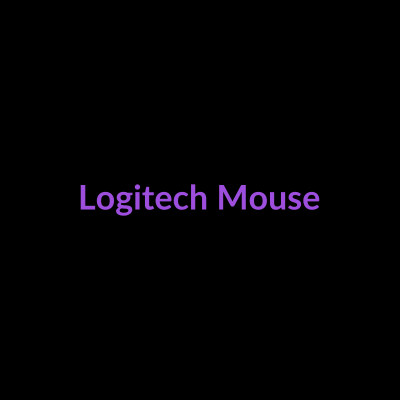
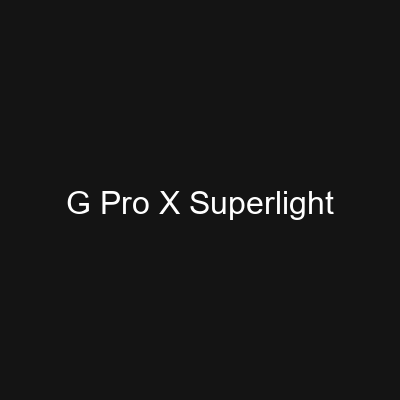
feat: new products

Changed region(s): [[0.15, 0.45, 0.84, 0.57]]

diff --git a/byteForge-backend/scripts/generate_placeholders.py b/byteForge-backend/scripts/generate_placeholders.py
@@ -1,0 +1,95 @@
+import os
+from PIL import Image, ImageDraw, ImageFont
+
+# Directory to save generated images
+IMAGE_DIR = os.path.join(os.path.dirname(__file__), '../images/product_images')
+os.makedirs(IMAGE_DIR, exist_ok=True)
+
+
+# Import GFUEL products
+try:
+    from gfuel_products import products as gfuel_products
+except ImportError:
+    gfuel_products = []
+
+# Add more product lists here for other categories as you generate them
+
+# Peripherals and Monitors
+peripherals_products = [
+    # Mice
+    ('logitech_g_pro_superlight.png', 'G Pro X Superlight'),
+    ('razer_deathadder_v3.png', 'DeathAdder V3'),
+    ('steelseries_rival_5.png', 'Rival 5'),
+    ('glorious_model_o_wireless.png', 'Model O Wireless'),
+    ('cooler_master_mm720.png', 'MM720'),
+    ('magegee_portable.png', 'MageGee Portable'),
+    ('noise_cancelling_mouse.png', 'Silent Mouse'),
+    ('usb_c_fast_mouse.png', 'USB-C Mouse'),
+    ('mousepad_xxl.png', 'Mouse Pad XXL'),
+    ('phanteks_p400a_mouse.png', 'P400A Mouse'),
+
+    # Keyboards
+    ('razer_blackwidow_v4.png', 'BlackWidow V4 Pro'),
+    ('corsair_k70_rgb.png', 'K70 RGB'),
+    ('ducky_one_2_mini.png', 'One 2 Mini'),
+    ('keychron_k6.png', 'Keychron K6'),
+    ('logitech_g915_tkl.png', 'G915 TKL'),
+    ('steelseries_apex_pro.png', 'Apex Pro'),
+    ('hyperx_alloy_fps_pro.png', 'Alloy FPS Pro'),
+    ('cooler_master_sk621.png', 'SK621'),
+    ('asus_rog_strix_scope.png', 'ROG Strix Scope'),
+    ('redragon_k552_kumara.png', 'K552 Kumara'),
+
+    # Headsets
+    ('steelseries_arctis_nova.png', 'Arctis Nova Pro'),
+    ('hyperx_cloud_ii.png', 'Cloud II'),
+    ('corsair_hs80.png', 'HS80 RGB'),
+    ('epos_h6pro_open.png', 'H6PRO Open'),
+    ('blue_yeti.png', 'Blue Yeti'),
+    ('logitech_g_pro_x_headset.png', 'G Pro X Headset'),
+    ('razer_kraken_x.png', 'Kraken X'),
+    ('sennheiser_gsp_300.png', 'GSP 300'),
+    ('asus_rog_delta_s.png', 'ROG Delta S'),
+    ('corsair_void_rgb_elite.png', 'Void RGB Elite'),
+
+    # Monitors
+    ('aoc_24g2.png', 'AOC 24G2'),
+    ('lg_ultragear_27gn950.png', 'UltraGear 27GN950'),
+    ('samsung_odyssey_g7.png', 'Odyssey G7'),
+    ('asus_tuf_vg27aq.png', 'TUF VG27AQ'),
+    ('alienware_aw2521h.png', 'AW2521H'),
+    ('benq_zowie_xl2546k.png', 'ZOWIE XL2546K'),
+    ('msi_optix_mag274qrf.png', 'Optix MAG274QRF'),
+    ('gigabyte_m27q.png', 'M27Q'),
+    ('viewsonic_xg2431.png', 'XG2431'),
+    ('philips_momentum_279m1rv.png', 'Momentum 279M1RV'),
+]
+
+products = gfuel_products + peripherals_products
+
+# If you want to auto-generate for all products in DB, you can later extend this script
+
+# Image settings
+WIDTH, HEIGHT = 400, 400
+BG_COLOR = (20, 20, 20)
+TEXT_COLOR = (255, 255, 255)
+FONT_SIZE = 32
+
+# Try to load a font, fallback to default
+try:
+    font = ImageFont.truetype("arial.ttf", FONT_SIZE)
+except:
+    font = ImageFont.load_default()
+
+def generate_placeholder(filename, label):
+    img = Image.new('RGB', (WIDTH, HEIGHT), BG_COLOR)
+    draw = ImageDraw.Draw(img)
+    bbox = draw.textbbox((0, 0), label, font=font)
+    w, h = bbox[2] - bbox[0], bbox[3] - bbox[1]
+    draw.text(((WIDTH-w)/2, (HEIGHT-h)/2), label, fill=TEXT_COLOR, font=font)
+    img.save(os.path.join(IMAGE_DIR, filename))
+
+if __name__ == "__main__":
+    for filename, label in products:
+        generate_placeholder(filename, label)
+    print(f"Generated {len(products)} placeholder images in {IMAGE_DIR}")

diff --git a/byteForge-backend/scripts/gfuel_products.py b/byteForge-backend/scripts/gfuel_products.py
@@ -1,0 +1,35 @@
+products = [
+    # GFUEL Energy Tubs
+    ('gfuel_blue_ice.png', 'Blue Ice'),
+    ('gfuel_watermelon.png', 'Watermelon'),
+    ('gfuel_tropical_rain.png', 'Tropical Rain'),
+    ('gfuel_sour_cherry.png', 'Sour Cherry'),
+    ('gfuel_rainbow_sherbet.png', 'Rainbow Sherbet'),
+    ('gfuel_lemon_lime.png', 'Lemon Lime'),
+    ('gfuel_strawberry_shortcake.png', 'Strawberry Shortcake'),
+    ('gfuel_bahama_mama.png', 'Bahama Mama'),
+    ('gfuel_hype_sauce.png', 'Hype Sauce'),
+    ('gfuel_pewdiepie.png', 'PewDiePie'),
+    # GFUEL Shaker Cups
+    ('gfuel_pewdiepie_shaker.png', 'PewDiePie Shaker'),
+    ('gfuel_faze_clan_shaker.png', 'FaZe Clan Shaker'),
+    ('gfuel_glow_shaker.png', 'Glow Shaker'),
+    ('gfuel_winter_white_shaker.png', 'Winter White Shaker'),
+    ('gfuel_pink_drip_shaker.png', 'Pink Drip Shaker'),
+    ('gfuel_blacked_out_shaker.png', 'Blacked Out Shaker'),
+    ('gfuel_team_kaliber_shaker.png', 'Team Kaliber Shaker'),
+    ('gfuel_miami_nights_shaker.png', 'Miami Nights Shaker'),
+    ('gfuel_sonic_shaker.png', 'Sonic Shaker'),
+    ('gfuel_golden_apple_pear_shaker.png', 'Golden Apple Pear Shaker'),
+    # GFUEL Starter Packs
+    ('gfuel_starter_kit_blue.png', 'Starter Kit Blue'),
+    ('gfuel_starter_kit_red.png', 'Starter Kit Red'),
+    ('gfuel_starter_kit_green.png', 'Starter Kit Green'),
+    ('gfuel_starter_kit_pink.png', 'Starter Kit Pink'),
+    ('gfuel_starter_kit_black.png', 'Starter Kit Black'),
+    ('gfuel_starter_kit_white.png', 'Starter Kit White'),
+    ('gfuel_starter_kit_orange.png', 'Starter Kit Orange'),
+    ('gfuel_starter_kit_purple.png', 'Starter Kit Purple'),
+    ('gfuel_starter_kit_yellow.png', 'Starter Kit Yellow'),
+    ('gfuel_starter_kit_teal.png', 'Starter Kit Teal'),
+]
